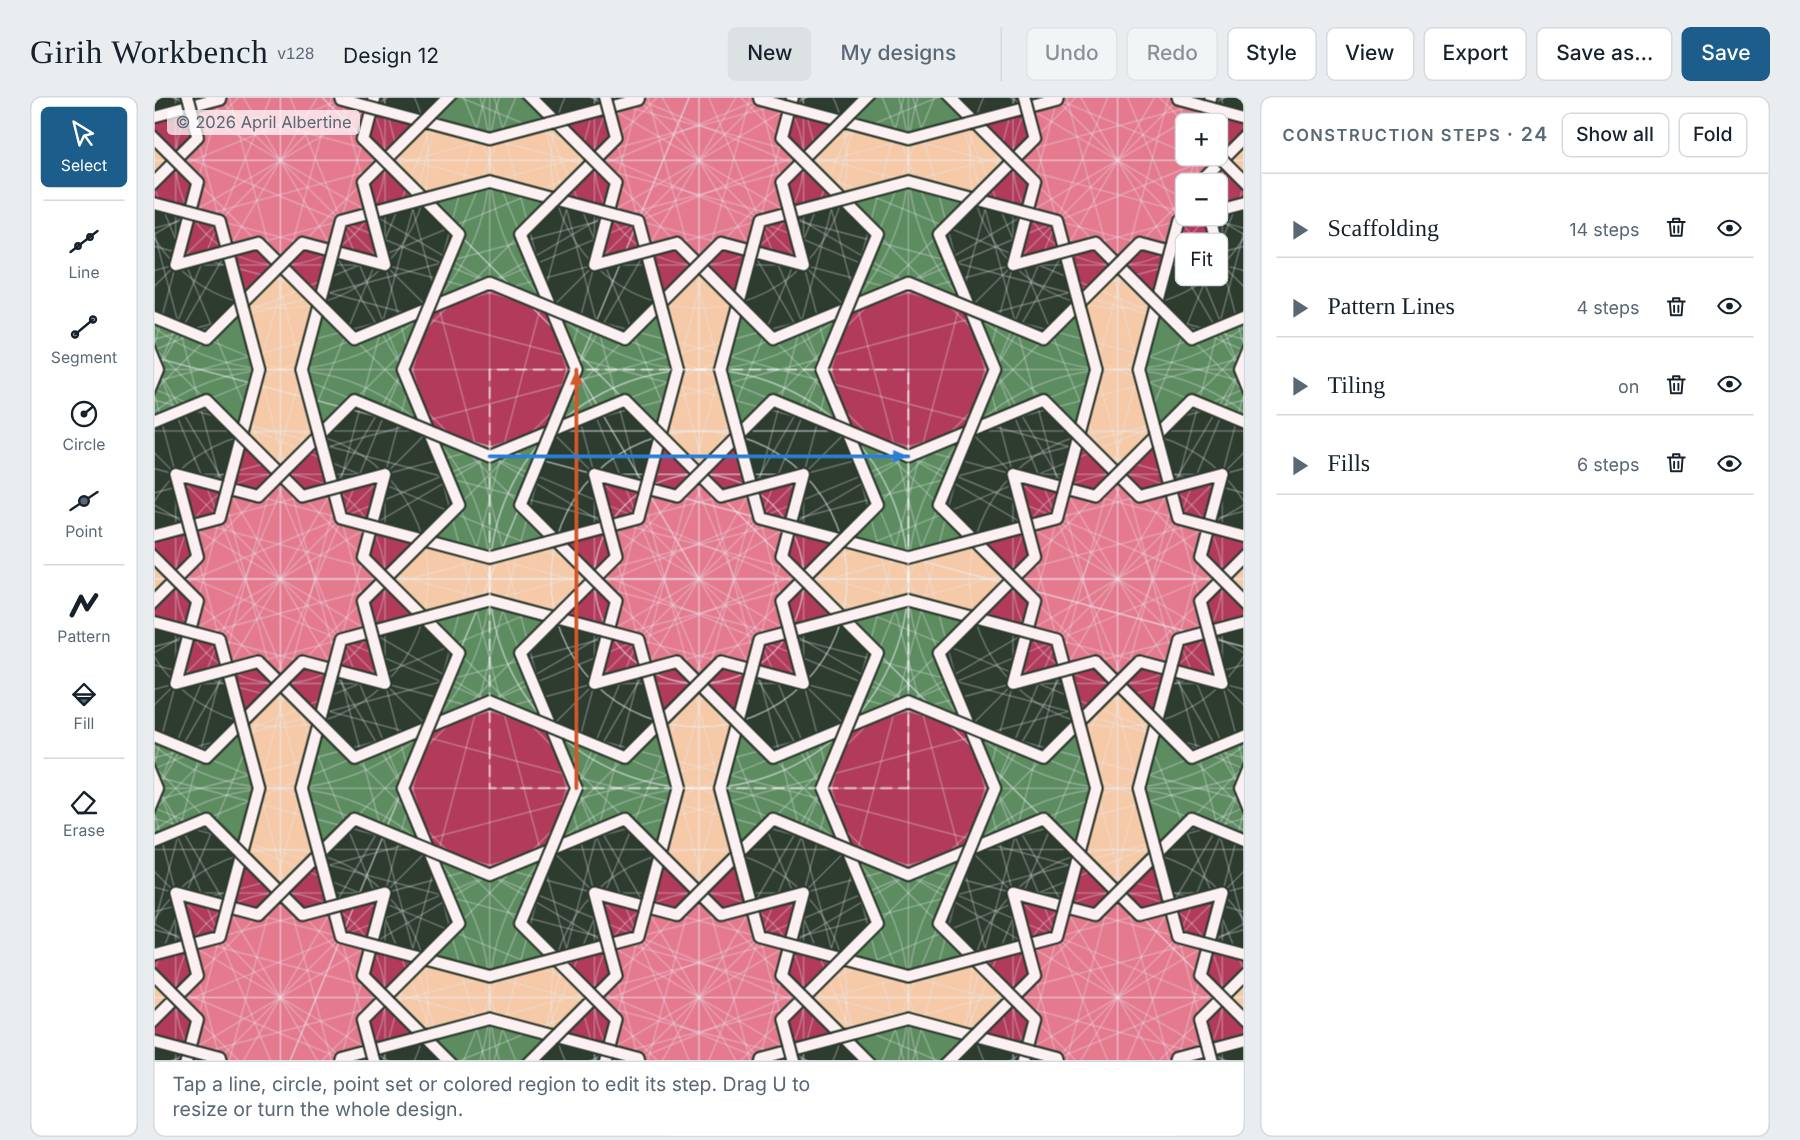
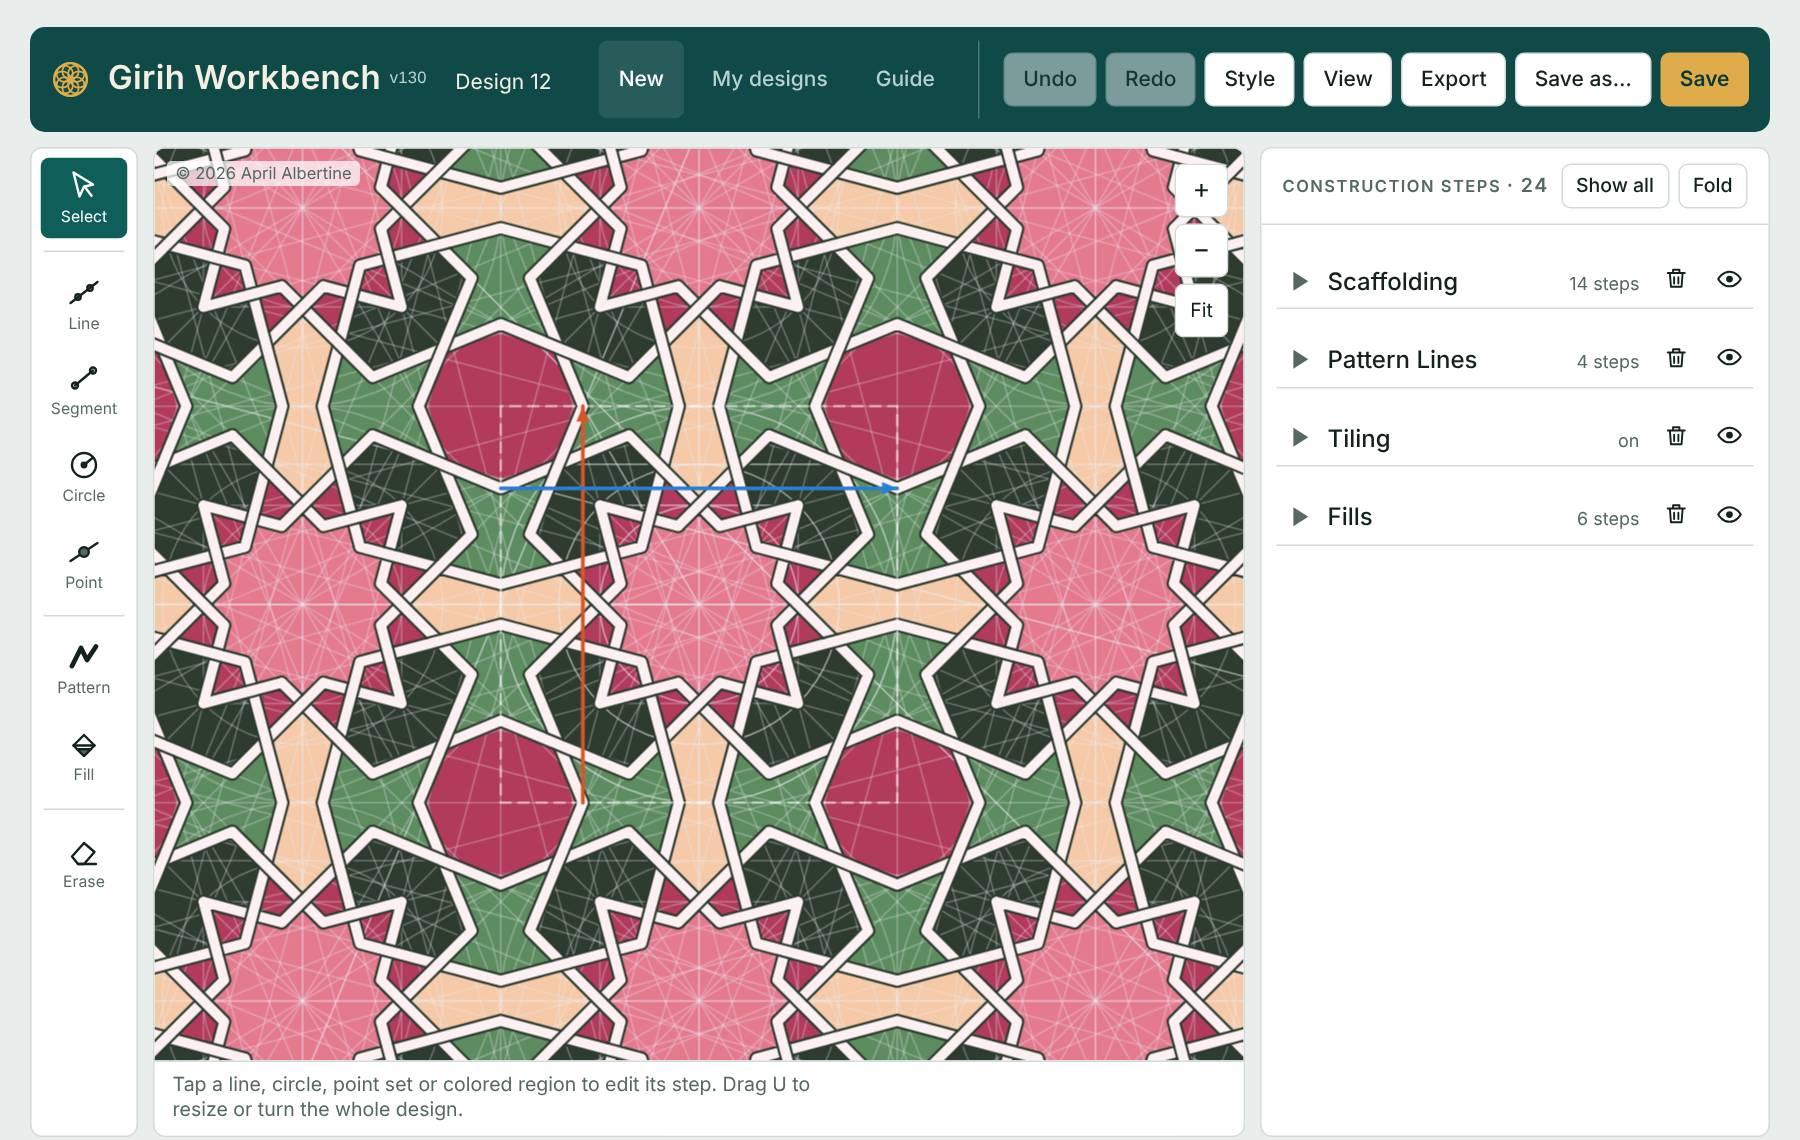
Girih Workbench v130: new branding
Claude-Session: https://claude.ai/code/session_01LieR8DCWn7YUs81wNRPtk8

diff --git a/index.html b/index.html
@@ -3,27 +3,31 @@
 <head>
 <meta charset="utf-8">
 <meta name="viewport" content="width=device-width,initial-scale=1,viewport-fit=cover">
-<meta name="generator" content="girih-workbench v129">
+<meta name="generator" content="girih-workbench v130">
 <meta name="author" content="April Albertine">
+<meta name="theme-color" content="#0f4a48">
+<link rel="icon" href="favicon.svg" type="image/svg+xml">
+<link rel="apple-touch-icon" href="icon-180.png">
 <meta name="copyright" content="© 2026 April Albertine">
 <meta name="description" content="Design Islamic geometric patterns step by step, by compass and straightedge.">
 <title>Girih Workbench</title>
-<link rel="stylesheet" href="https://fonts.googleapis.com/css2?family=Marcellus&family=Figtree:wght@400;500;600&family=JetBrains+Mono:wght@400;500&display=swap">
+<link rel="stylesheet" href="https://fonts.googleapis.com/css2?family=Reem+Kufi:wght@500;600&family=Figtree:wght@400;500;600&family=JetBrains+Mono:wght@400;500&display=swap">
 <style>
 /* Layout: drafting table — tool rail | canvas | instrument panel; on phones the canvas stacks above tools and panel */
 :root {
-  --bg: #e9edf0; --panel: #ffffff; --ink: #16212c; --muted: #5a6876; --rule: #d3dae0;
-  --accent: #1c5d8c; --accent-ink: #ffffff; --chip: #f2f5f7; --warn: #a3501a; --warn-bg: #fbeee4;
-  --display: "Marcellus", "Trajan Pro", Georgia, serif;
+  --bg: #e9eeec; --panel: #ffffff; --ink: #14221f; --muted: #556863; --rule: #d1dbd7;
+  --accent: #0f5e5a; --accent-ink: #ffffff; --chip: #f1f5f3; --warn: #a3501a; --warn-bg: #fbeee4;
+  --brand: #0f4a48; --brand-deep: #0a3837; --brand-ink: #f4efe2; --brand-muted: #b9d1cc; --gold: #e0ac4a;
+  --display: "Reem Kufi", "Figtree", system-ui, sans-serif;
   --body: "Figtree", system-ui, -apple-system, "Segoe UI", sans-serif;
   --mono: "JetBrains Mono", ui-monospace, Menlo, monospace;
 }
 @media (prefers-color-scheme: dark) { :root:not([data-theme="light"]) {
-  --bg: #0e141b; --panel: #151d26; --ink: #e3e9ef; --muted: #96a3b1; --rule: #26313d;
-  --accent: #6aa8d8; --accent-ink: #0e141b; --chip: #1b2530; --warn: #f0a46c; --warn-bg: #3a2717; color-scheme: dark } }
+  --bg: #0a1f1e; --panel: #102b2a; --ink: #e6efec; --muted: #9bb5af; --rule: #214340;
+  --accent: #e0ac4a; --accent-ink: #0a2b2a; --chip: #163634; --warn: #f0a46c; --warn-bg: #3a2717; --brand: #0a3837; color-scheme: dark } }
 :root[data-theme="dark"] {
-  --bg: #0e141b; --panel: #151d26; --ink: #e3e9ef; --muted: #96a3b1; --rule: #26313d;
-  --accent: #6aa8d8; --accent-ink: #0e141b; --chip: #1b2530; --warn: #f0a46c; --warn-bg: #3a2717; color-scheme: dark }
+  --bg: #0a1f1e; --panel: #102b2a; --ink: #e6efec; --muted: #9bb5af; --rule: #214340;
+  --accent: #e0ac4a; --accent-ink: #0a2b2a; --chip: #163634; --warn: #f0a46c; --warn-bg: #3a2717; --brand: #0a3837; color-scheme: dark }
 
 [hidden] { display: none !important; }
 html, body { height: 100%; }
@@ -34,9 +38,19 @@ button, input, select { font: inherit; color: inherit; }
 button { cursor: pointer; }
 :focus-visible { outline: 2px solid var(--accent); outline-offset: 2px; }
 
-.top { display: flex; align-items: center; gap: 10px 14px; flex-wrap: wrap; }
+.top { display: flex; align-items: center; gap: 10px 14px; flex-wrap: wrap; background: var(--brand); color: var(--brand-ink); padding: 9px 14px; border-radius: 10px; }
+.top .mark { width: 26px; height: 26px; flex: none; color: var(--gold); align-self: center; }
+.top .ver { color: var(--brand-muted); }
+.top .btn.ghost { color: var(--brand-muted); }
+.top .btn.ghost:hover { background: rgba(255,255,255,.1); color: #fff; }
+.top .btn:not(.ghost):not(.primary) { color: var(--ink); }
+.top .btn.primary { background: var(--gold); border-color: var(--gold); color: #0a3837; font-weight: 600; }
+.top .top-sep { background: rgba(255,255,255,.25); }
+.top #dname { color: var(--brand-ink); }
+.top #dname:hover, .top #dname:focus { color: var(--ink); }
+.top :focus-visible { outline-color: var(--gold); }
 .brand { display: flex; align-items: baseline; gap: 12px; min-width: 0; flex: 1 1 260px; }
-h1 { font-family: var(--display); font-weight: 400; font-size: 22px; margin: 0; letter-spacing: .02em; white-space: nowrap; }
+h1 { font-family: var(--display); font-weight: 600; font-size: 22px; margin: 0; letter-spacing: .01em; white-space: nowrap; }
 #dname { border: 1px solid transparent; background: transparent; padding: 4px 6px; border-radius: 4px; min-width: 0; flex: 1; max-width: 320px; font-size: 14px; }
 #dname:hover, #dname:focus { border-color: var(--rule); background: var(--panel); }
 .top-actions { display: flex; gap: 6px 10px; flex-wrap: wrap; align-items: center; }
@@ -174,7 +188,7 @@ a.btn { text-decoration: none; display: inline-flex; align-items: center; }
 .sechead .chev { color: var(--muted); align-self: center; }
 .sechead .chev svg { width: 17px; height: 17px; }
 .sechead .chev { width: 22px; height: 22px; }
-.sechead .st { font-family: 'Marcellus', serif; font-size: 16px; flex: 1; }
+.sechead .st { font-family: var(--display); font-weight: 500; font-size: 16px; flex: 1; }
 .sechead .sc { font-size: 12px; color: var(--muted); }
 .secbody { display: grid; gap: 6px; padding: 4px 0 6px; }
 .card.draft { border-color: var(--accent); border-style: solid; box-shadow: 0 0 0 2px color-mix(in srgb, var(--accent) 25%, transparent); }
@@ -257,7 +271,7 @@ optgroup { font-weight: 600; }
 <body>
 <div class="app">
   <header class="top">
-    <div class="brand"><h1>Girih Workbench <span class="ver" title="App version">v129</span></h1><input id="dname" aria-label="Design name" value="Untitled design"></div>
+    <div class="brand"><svg class="mark" viewBox="0 0 100 100" aria-hidden="true" fill="none" stroke="currentColor"><circle cx="50" cy="50" r="42" stroke-width="6"/><g stroke-width="4.5"><circle cx="71" cy="50" r="21"/><circle cx="64.8" cy="64.8" r="21"/><circle cx="50" cy="71" r="21"/><circle cx="35.2" cy="64.8" r="21"/><circle cx="29" cy="50" r="21"/><circle cx="35.2" cy="35.2" r="21"/><circle cx="50" cy="29" r="21"/><circle cx="64.8" cy="35.2" r="21"/></g></svg><h1>Girih Workbench <span class="ver" title="App version">v130</span></h1><input id="dname" aria-label="Design name" value="Untitled design"></div>
     <div class="top-actions">
       <div class="grp-file" role="group" aria-label="Designs">
         <button class="btn ghost" id="newBtn">New</button>

diff --git a/guide.html b/guide.html
@@ -6,25 +6,29 @@
 <meta name="author" content="April Albertine">
 <meta name="description" content="How to use Girih Workbench to design Islamic geometric patterns with compass-and-straightedge steps.">
 <title>Girih Workbench: User’s Guide</title>
+<meta name="theme-color" content="#0f4a48">
+<link rel="icon" href="favicon.svg" type="image/svg+xml">
+<link rel="apple-touch-icon" href="icon-180.png">
 <link rel="preconnect" href="https://fonts.googleapis.com">
-<link href="https://fonts.googleapis.com/css2?family=Figtree:wght@400;500;600&family=Marcellus&display=swap" rel="stylesheet">
+<link href="https://fonts.googleapis.com/css2?family=Figtree:wght@400;500;600&family=Reem+Kufi:wght@500;600&display=swap" rel="stylesheet">
 <style>
-:root { --bg: #f4f6f8; --panel: #ffffff; --ink: #16212c; --muted: #5a6876; --rule: #d3dae0; --accent: #1c5d8c; --chip: #eef2f5;
-  --display: "Marcellus", "Trajan Pro", Georgia, serif; --body: "Figtree", system-ui, -apple-system, "Segoe UI", sans-serif; }
-@media (prefers-color-scheme: dark) { :root { --bg: #0e141b; --panel: #151d26; --ink: #e3e9ef; --muted: #96a3b1; --rule: #26313d; --accent: #6aa8d8; --chip: #1b2530; color-scheme: dark; } }
+:root { --bg: #f3f6f5; --panel: #ffffff; --ink: #14221f; --muted: #556863; --rule: #d1dbd7; --accent: #0f5e5a; --chip: #edf2f0; --brand: #0f4a48; --gold: #e0ac4a;
+  --display: "Reem Kufi", "Figtree", system-ui, sans-serif; --body: "Figtree", system-ui, -apple-system, "Segoe UI", sans-serif; }
+@media (prefers-color-scheme: dark) { :root { --bg: #0a1f1e; --panel: #102b2a; --ink: #e6efec; --muted: #9bb5af; --rule: #214340; --accent: #e0ac4a; --chip: #163634; --brand: #0a3837; color-scheme: dark; } }
 * { box-sizing: border-box; }
 html { scroll-behavior: smooth; }
 body { margin: 0; background: var(--bg); color: var(--ink); font: 17px/1.6 var(--body); }
 .wrap { max-width: 820px; margin: 0 auto; padding: 28px 18px 64px; }
-header.top { display: flex; flex-wrap: wrap; align-items: baseline; justify-content: space-between; gap: 8px 16px; margin-bottom: 8px; }
-h1 { font: 400 34px/1.15 var(--display); margin: 0; }
-h2 { font: 400 25px/1.2 var(--display); margin: 44px 0 10px; padding-top: 14px; border-top: 1px solid var(--rule); scroll-margin-top: 12px; }
+header.top { display: flex; flex-wrap: wrap; align-items: center; gap: 10px 16px; margin-bottom: 14px; background: var(--brand); color: #f4efe2; padding: 16px 20px; border-radius: 12px; }
+header.top svg { width: 40px; height: 40px; flex: none; color: var(--gold); }
+header.top h1 { flex: 1 1 260px; }
+h1 { font: 600 30px/1.15 var(--display); margin: 0; }
+h2 { font: 500 24px/1.2 var(--display); margin: 44px 0 10px; padding-top: 14px; border-top: 1px solid var(--rule); scroll-margin-top: 12px; }
 h3 { font-size: 17px; font-weight: 600; margin: 22px 0 4px; }
 p { margin: 8px 0; }
 a { color: var(--accent); }
 .lede { color: var(--muted); font-size: 18px; margin: 6px 0 18px; }
-.open { display: inline-block; background: var(--accent); color: #fff; text-decoration: none; padding: 8px 14px; border-radius: 6px; font-weight: 500; font-size: 15px; }
-@media (prefers-color-scheme: dark) { .open { color: #0e141b; } }
+.open { display: inline-block; background: var(--gold); color: #0a3837; text-decoration: none; padding: 8px 14px; border-radius: 6px; font-weight: 600; font-size: 15px; }
 nav.toc { background: var(--panel); border: 1px solid var(--rule); border-radius: 10px; padding: 14px 18px; }
 nav.toc b { font-size: 13px; letter-spacing: .08em; text-transform: uppercase; color: var(--muted); }
 nav.toc ol { margin: 8px 0 0; padding-left: 22px; columns: 2; column-gap: 28px; }
@@ -49,6 +53,7 @@ footer { margin-top: 48px; padding-top: 14px; border-top: 1px solid var(--rule);
 <body>
 <div class="wrap">
 <header class="top">
+  <svg viewBox="0 0 100 100" aria-hidden="true" fill="none" stroke="currentColor"><circle cx="50" cy="50" r="42" stroke-width="6"/><g stroke-width="4.5"><circle cx="71" cy="50" r="21"/><circle cx="64.8" cy="64.8" r="21"/><circle cx="50" cy="71" r="21"/><circle cx="35.2" cy="64.8" r="21"/><circle cx="29" cy="50" r="21"/><circle cx="35.2" cy="35.2" r="21"/><circle cx="50" cy="29" r="21"/><circle cx="64.8" cy="35.2" r="21"/></g></svg>
   <h1>Girih Workbench: User’s Guide</h1>
   <a class="open" href="./">Open the workbench</a>
 </header>
